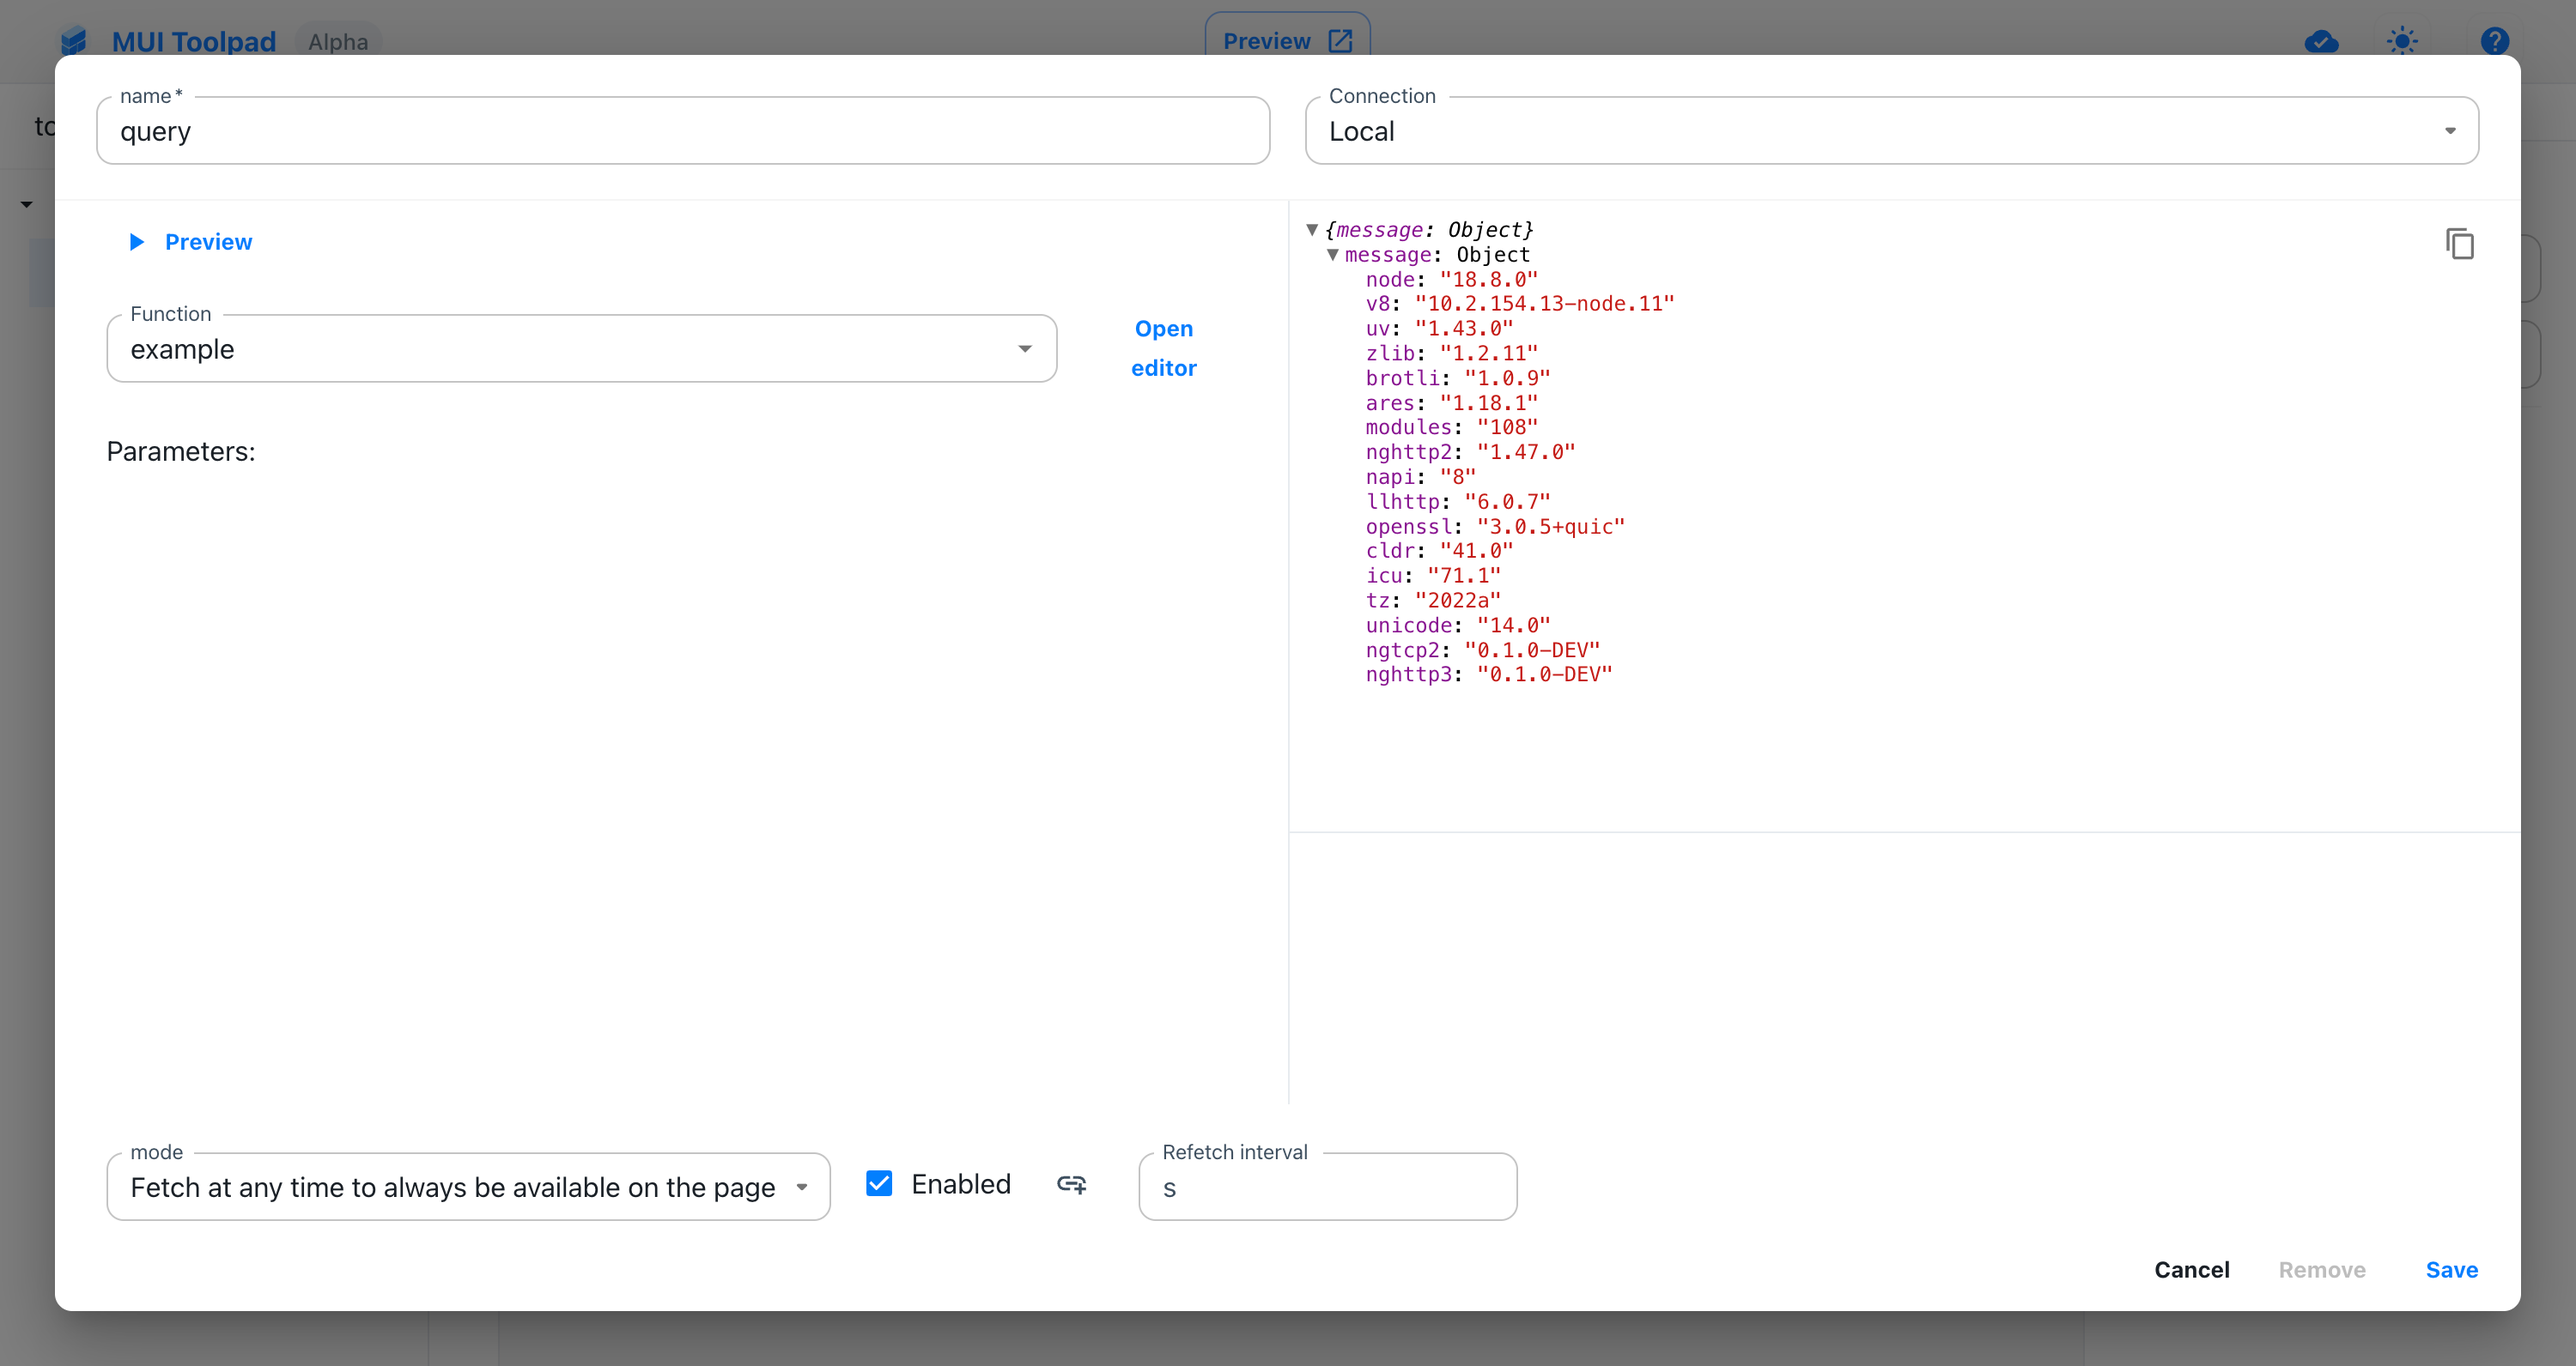
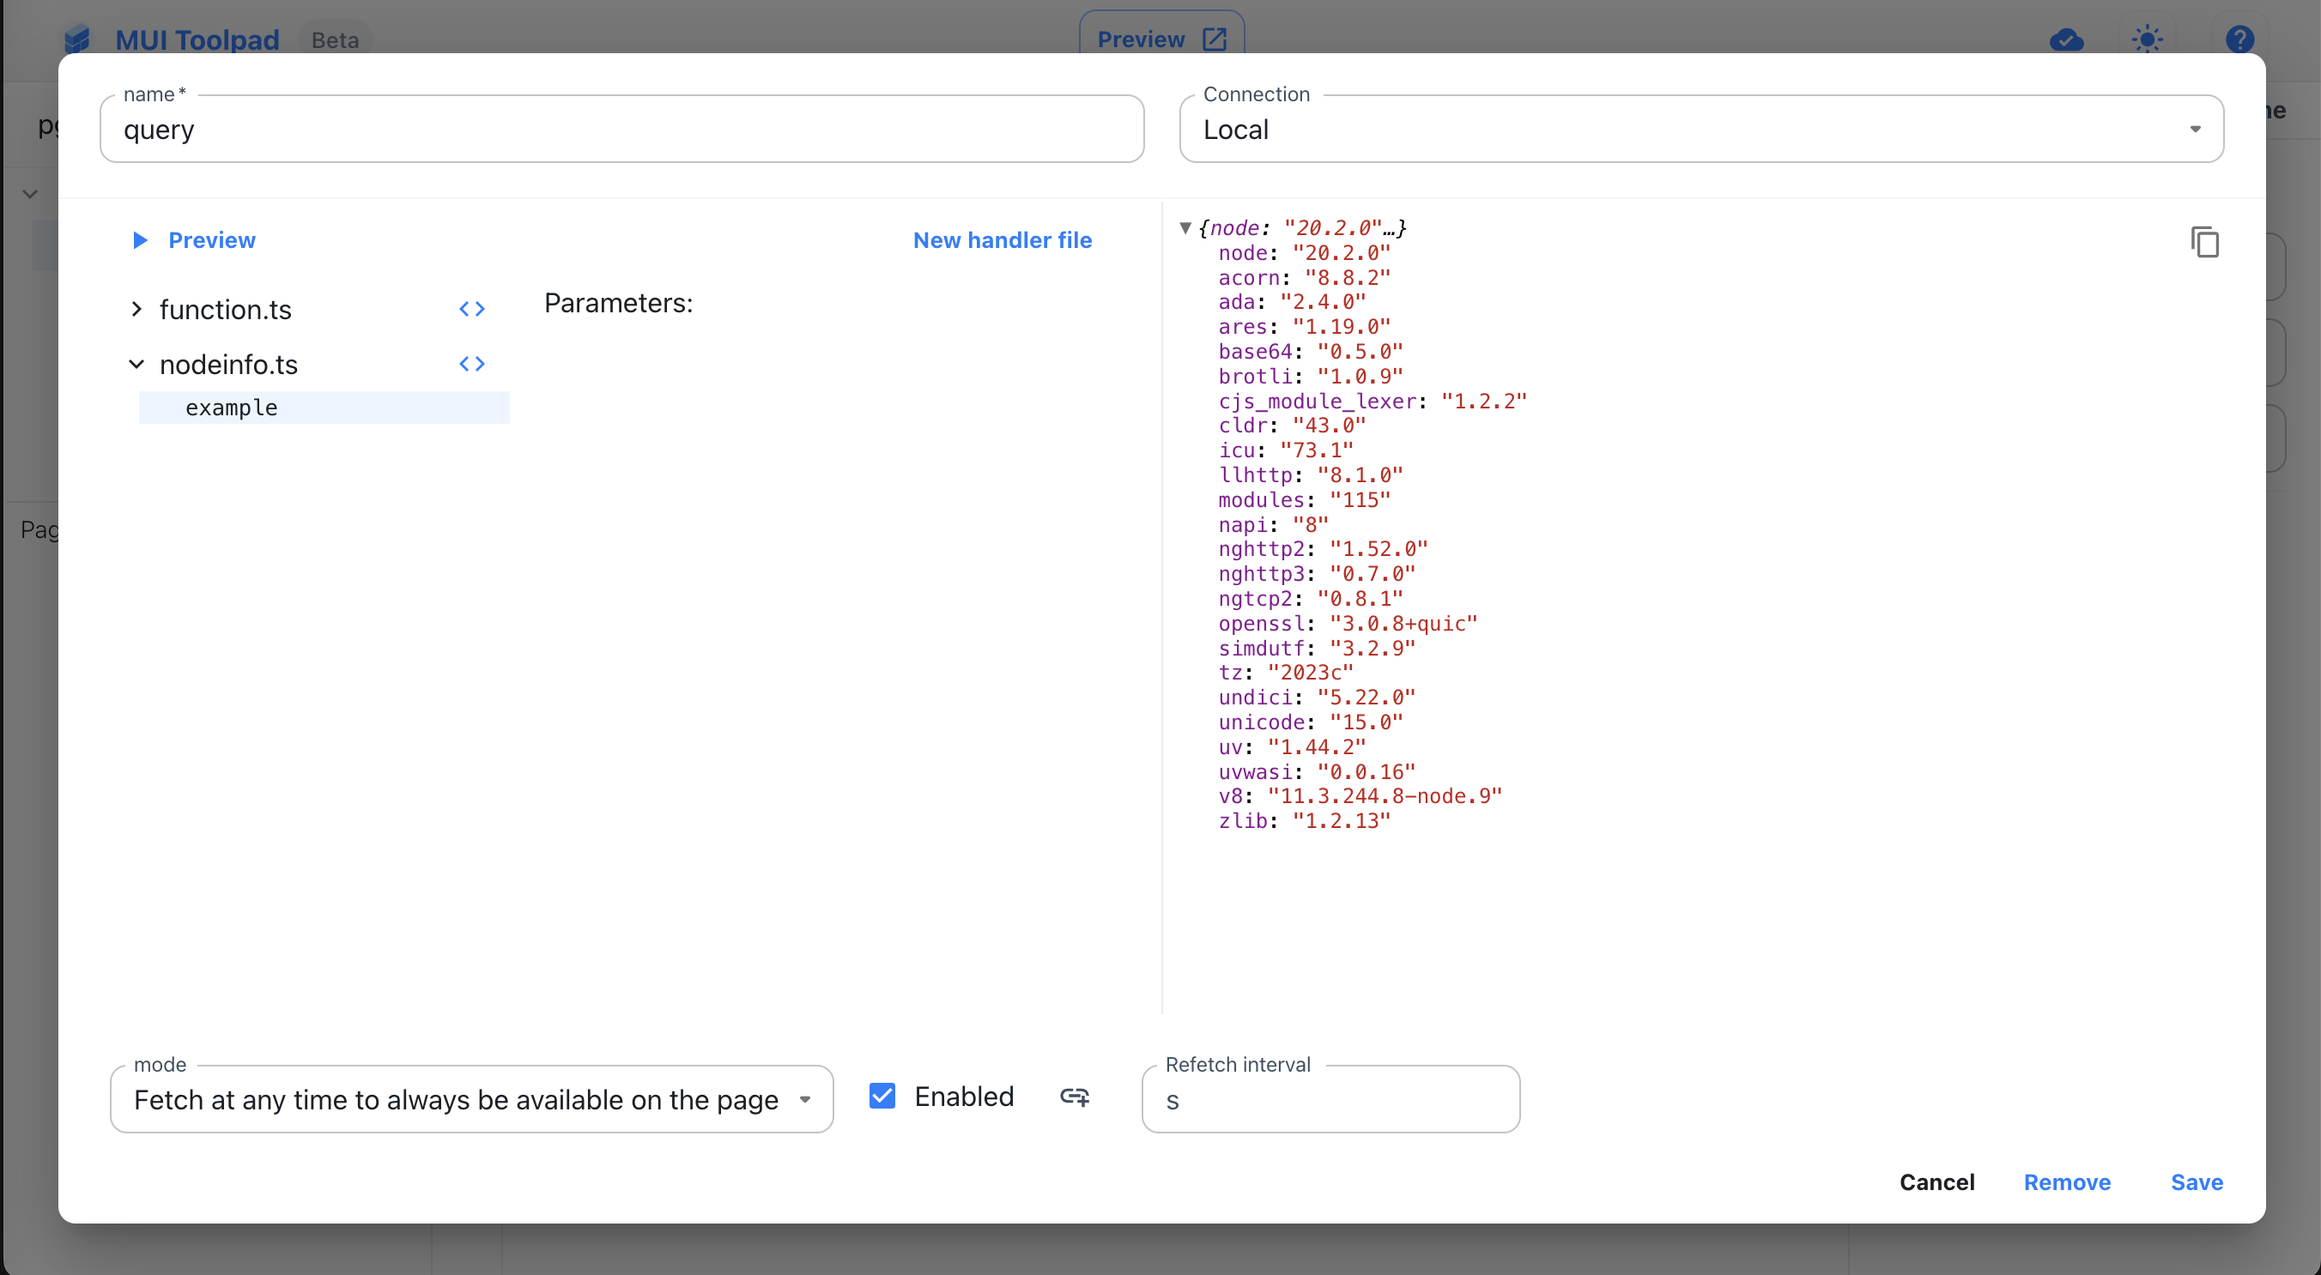
function-new-ui

diff --git a/docs/data/toolpad/concepts/custom-functions.md b/docs/data/toolpad/concepts/custom-functions.md
@@ -9,23 +9,17 @@ The most powerful way of bringing data into Toolpad is through using your own co
   Your browser does not support the video tag.
 </video>
 
-You can configure the following options here:
-
 ## Function editor
 
 - ### Function
 
-  This corresponds to a function that you create on your file system, inside the `toolpad/resources` folder. For example, in `toolpad/resources/functions.ts`
+  This corresponds to a function that you create on your file system, inside the `toolpad/resources` folder. For example, the default function in `toolpad/resources/functions.ts` looks like:
 
   ```jsx
-  export async function example() {
-    return {
-      message: 'hello world',
-    };
+  export default async function handler(message: string) {
+    return `Hello ${message}`;
   }
   ```
-
-{{"component": "modules/components/DocsImage.tsx", "src": "/static/toolpad/docs/concepts/connecting-to-data/custom-function-example.gif", "alt": "Select custom function in the query", "caption": "Adding a custom function to the query", "indent": 1 }}
 
 <ul>
 <li style="list-style-type: none">
@@ -33,9 +27,7 @@ Toolpad custom functions run fully server-side in Node. For example, if you chan
 
 ```jsx
 export async function example() {
-  return {
-    message: process.versions,
-  };
+  return process.versions;
 }
 ```
 
